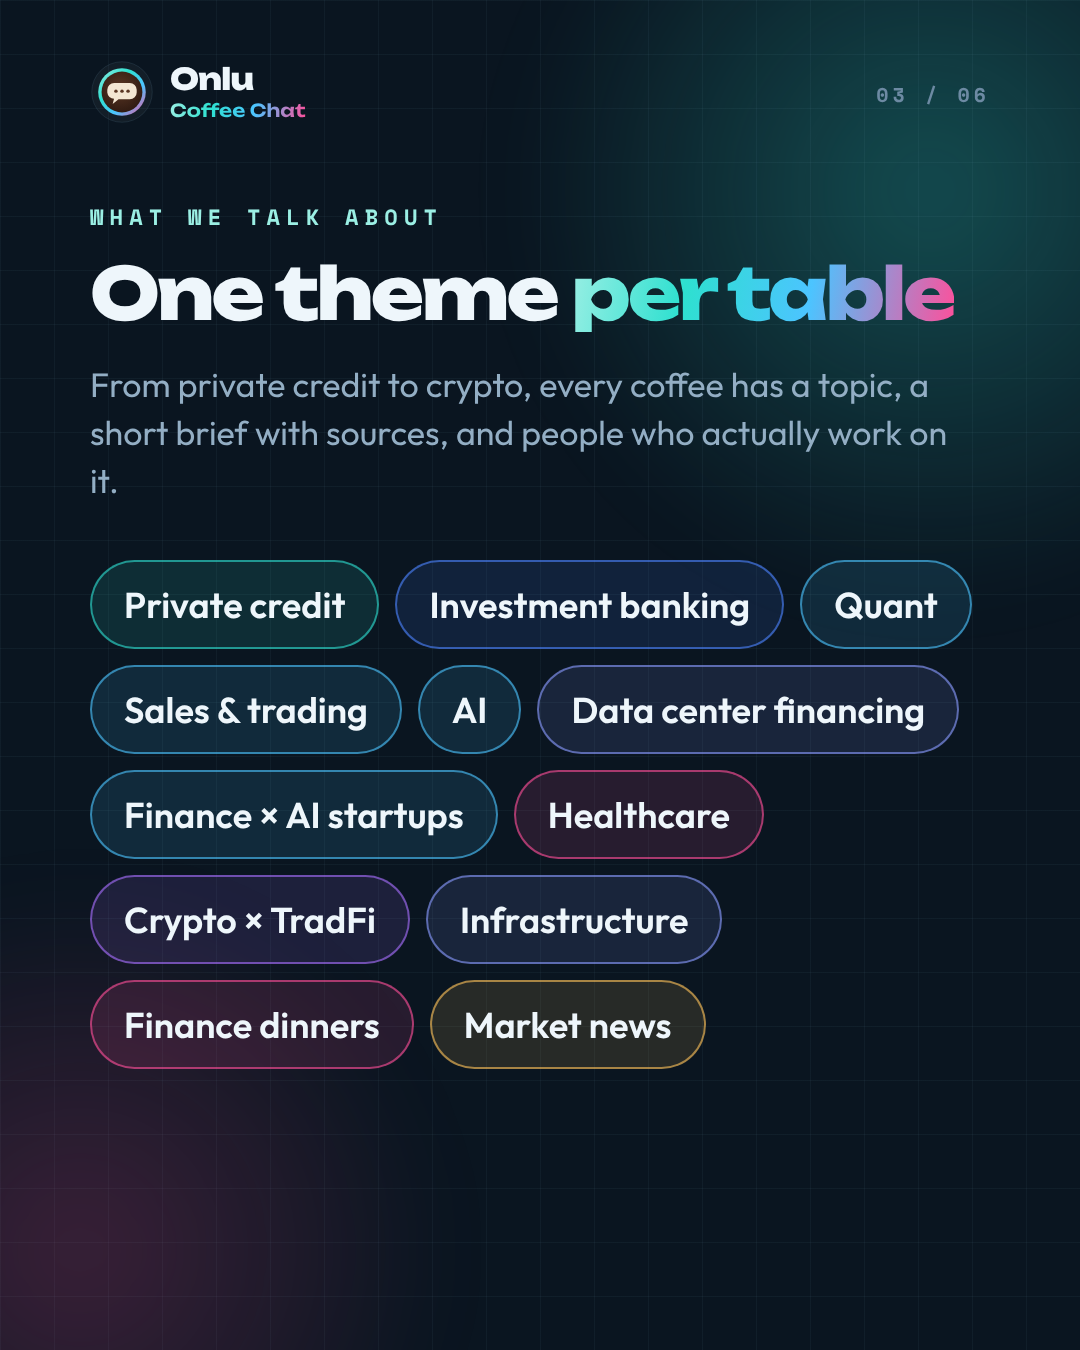
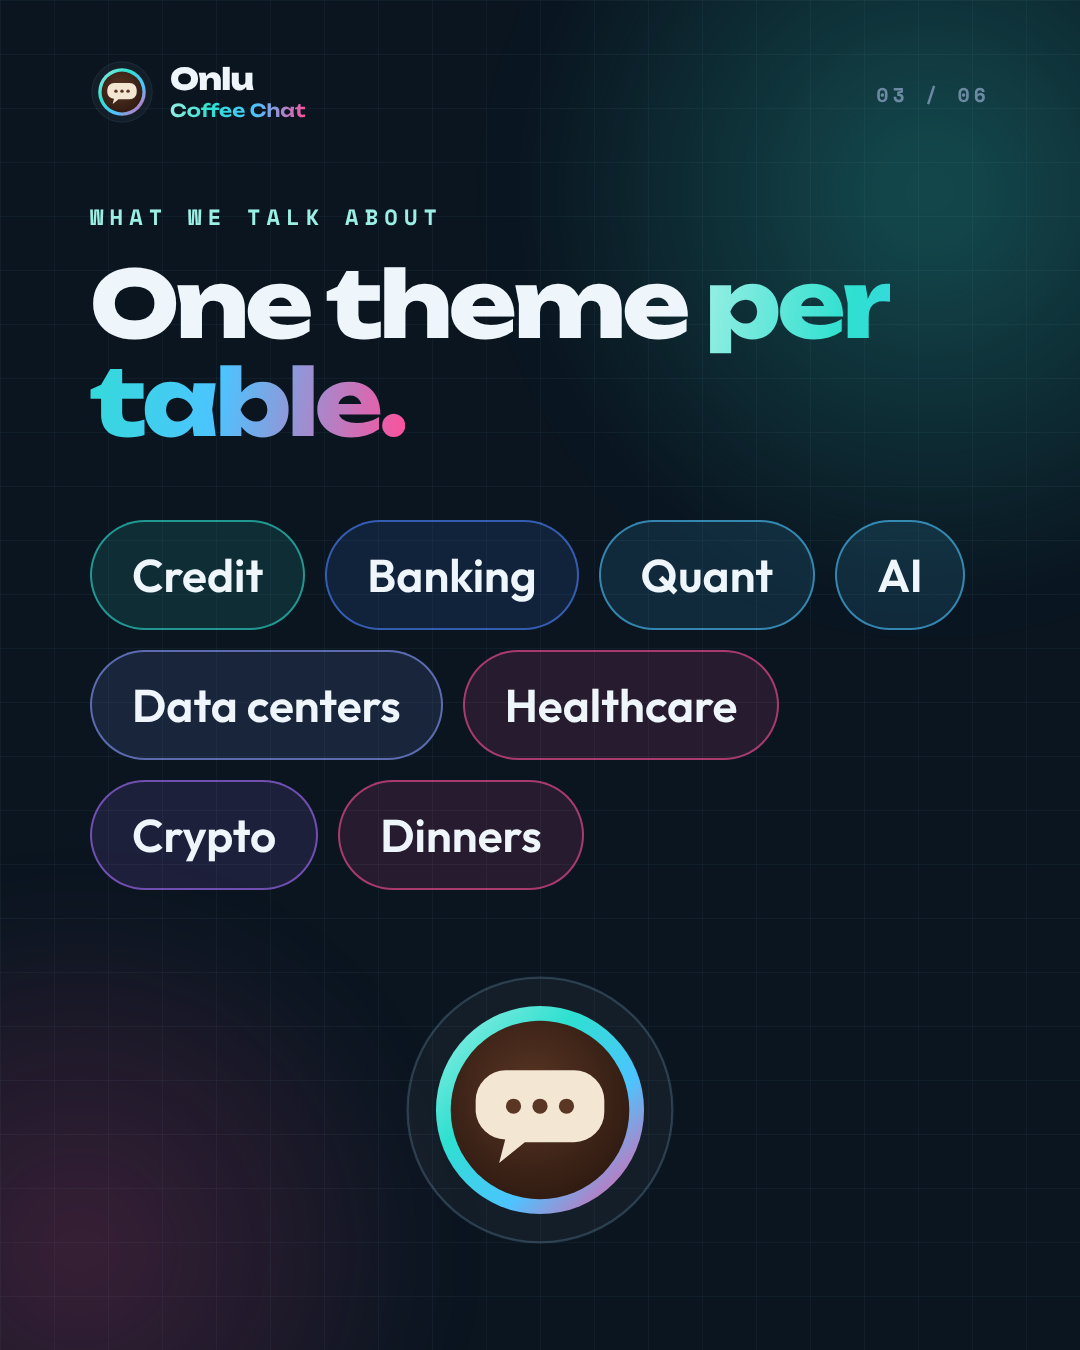
IG recap: fewer words, bigger type
Claude-Session: https://claude.ai/code/session_01THQHzvNsjhHsMdRnnGj1hD

Changed region(s): [[0.0611, 0.3733, 0.9167, 0.9022], [0.0611, 0.1867, 0.8861, 0.3733]]

diff --git a/social/ig/recap.html b/social/ig/recap.html
@@ -47,6 +47,19 @@ h2{font:800 72px/1.06 'Unbounded';letter-spacing:-.04em;margin:22px 0 0;}
 .cta p{font-size:30px;color:#93aec4;margin-top:16px;}
 .url{display:inline-block;margin-top:56px;font:800 40px 'Unbounded';letter-spacing:-.02em;color:#08131c;padding:24px 40px;border-radius:999px;background:linear-gradient(100deg,#9befe4,#2ee0d0 30%,#4cc4ff 62%,#ff4f9a);}
 .big{display:flex;justify-content:center;margin-top:10px;}
+</style><style>
+.s h1{font-size:120px;}
+.s h2{font-size:92px;}
+.tl li{font-size:38px;padding:13px 0;}
+.chips{gap:20px;margin-top:70px;}
+.chip{font-size:46px;padding:24px 40px;}
+.steps2{display:flex;flex-direction:column;gap:40px;margin-top:80px;}
+.steps2 div{display:flex;align-items:center;gap:34px;font:600 54px 'Outfit';}
+.steps2 i{font:800 54px 'Unbounded';font-style:normal;width:110px;}
+.bt{font-size:36px;} .bt b{font-size:34px;} .bars{gap:26px;margin-top:70px;}
+.tr{height:20px;}
+.st b{font-size:80px;} .st span{font-size:28px;}
+.cta h3{font-size:62px;}
 </style>
 <svg width="0" height="0" style="position:absolute"><defs>
   <linearGradient id="g" x1="0" y1="0" x2="1" y2="1"><stop offset="0" stop-color="#9befe4"/><stop offset=".35" stop-color="#2ee0d0"/><stop offset=".65" stop-color="#4cc4ff"/><stop offset="1" stop-color="#ff4f9a"/></linearGradient>
@@ -56,64 +69,47 @@ h2{font:800 72px/1.06 'Unbounded';letter-spacing:-.04em;margin:22px 0 0;}
   <circle cx="500" cy="500" r="350" fill="rgba(255,255,255,.04)" stroke="rgba(150,200,230,.22)" stroke-width="6"/>
   <circle cx="500" cy="500" r="275" fill="url(#g)"/><circle cx="500" cy="500" r="236" fill="url(#coffee)"/>
   <path d="M410 395 H590 A80 80 0 0 1 670 475 V505 A80 80 0 0 1 590 585 H460 L392 640 L408 578 A80 80 0 0 1 330 505 V475 A80 80 0 0 1 410 395 Z" fill="#f3e6d3"/>
-  <circle cx="430" cy="490" r="20" fill="#5a3624"/><circle cx="500" cy="490" r="20" fill="#5a3624"/><circle cx="570" cy="490" r="20" fill="#5a3624"/></svg><div><b>Onlu</b><span>Coffee Chat</span></div></div><div class="pg">01 / 06</div><div class="grid"></div>
-  <p class="k">New York · since May</p>
-  <h1>What we&#39;ve <span class="gr">brewed</span> so far.</h1>
-  <p class="lede">Small, themed coffees for people who work in finance. <b>Real conversations, zero cold DMs.</b></p>
-  <div class="stats"><div class="st"><b>10+</b><span>themed sessions</span></div><div class="st"><b>80+</b><span>sign-ups since July</span></div><div class="st"><b>150+</b><span>in our Xiaohongshu group</span></div></div>
-  <div class="big" style="margin-top:80px"><svg viewBox="130 130 740 740" width="250" height="250" style="display:block;flex:none">
+  <circle cx="430" cy="490" r="20" fill="#5a3624"/><circle cx="500" cy="490" r="20" fill="#5a3624"/><circle cx="570" cy="490" r="20" fill="#5a3624"/></svg><div><b>Onlu</b><span>Coffee Chat</span></div></div><div class="pg">01 / 06</div><div class="grid"></div><p class="k">NYC · since May</p>
+  <h1>What we&#39;ve <span class="gr">brewed.</span></h1>
+  <div class="stats"><div class="st"><b>10+</b><span>coffees</span></div><div class="st"><b>80+</b><span>sign-ups</span></div><div class="st"><b>150+</b><span>community</span></div></div>
+  <div class="big" style="margin-top:110px"><svg viewBox="130 130 740 740" width="300" height="300" style="display:block;flex:none">
   <circle cx="500" cy="500" r="350" fill="rgba(255,255,255,.04)" stroke="rgba(150,200,230,.22)" stroke-width="6"/>
   <circle cx="500" cy="500" r="275" fill="url(#g)"/><circle cx="500" cy="500" r="236" fill="url(#coffee)"/>
   <path d="M410 395 H590 A80 80 0 0 1 670 475 V505 A80 80 0 0 1 590 585 H460 L392 640 L408 578 A80 80 0 0 1 330 505 V475 A80 80 0 0 1 410 395 Z" fill="#f3e6d3"/>
   <circle cx="430" cy="490" r="20" fill="#5a3624"/><circle cx="500" cy="490" r="20" fill="#5a3624"/><circle cx="570" cy="490" r="20" fill="#5a3624"/></svg></div>
-  <p class="swipe">SWIPE →</p></section>
-<section class="s" id="s2"><div class="brand"><svg viewBox="130 130 740 740" width="64" height="64" style="display:block;flex:none">
+  <p class="swipe">SWIPE →</p></section><section class="s" id="s2"><div class="brand"><svg viewBox="130 130 740 740" width="64" height="64" style="display:block;flex:none">
   <circle cx="500" cy="500" r="350" fill="rgba(255,255,255,.04)" stroke="rgba(150,200,230,.22)" stroke-width="6"/>
   <circle cx="500" cy="500" r="275" fill="url(#g)"/><circle cx="500" cy="500" r="236" fill="url(#coffee)"/>
   <path d="M410 395 H590 A80 80 0 0 1 670 475 V505 A80 80 0 0 1 590 585 H460 L392 640 L408 578 A80 80 0 0 1 330 505 V475 A80 80 0 0 1 410 395 Z" fill="#f3e6d3"/>
-  <circle cx="430" cy="490" r="20" fill="#5a3624"/><circle cx="500" cy="490" r="20" fill="#5a3624"/><circle cx="570" cy="490" r="20" fill="#5a3624"/></svg><div><b>Onlu</b><span>Coffee Chat</span></div></div><div class="pg">02 / 06</div><div class="grid"></div>
-  <p class="k">The tables so far</p><h2>A coffee every <span class="gr">1–2 weeks</span></h2>
-  <ul class="tl"><li><span class="d">Jul 12</span><span class="dot" style="--c:#2ee0d0"></span><span class="e">Finance coffee chat</span></li><li><span class="d">Jul 26</span><span class="dot" style="--c:#2ee0d0"></span><span class="e">Private credit</span></li><li><span class="d">Aug 1</span><span class="dot" style="--c:#4cc4ff"></span><span class="e">Markets / sales & trading</span></li><li><span class="d">Aug 9</span><span class="dot" style="--c:#4d84ff"></span><span class="e">Investment banking</span></li><li><span class="d">Aug 16</span><span class="dot" style="--c:#4cc4ff"></span><span class="e">Quant</span></li><li><span class="d">Aug 22</span><span class="dot" style="--c:#ff4f9a"></span><span class="e">Finance dinner</span></li><li><span class="d">Aug 30</span><span class="dot" style="--c:#4cc4ff"></span><span class="e">AI</span></li><li><span class="d">Oct 3</span><span class="dot" style="--c:#2ee0d0"></span><span class="e">Credit</span></li><li><span class="d">Oct 11</span><span class="dot" style="--c:#8a9bff"></span><span class="e">Infra / data center financing</span></li><li><span class="d">Oct 17</span><span class="dot" style="--c:#4cc4ff"></span><span class="e">Finance × AI startup brainstorm</span></li><li><span class="d">Nov 8</span><span class="dot" style="--c:#ff4f9a"></span><span class="e">Healthcare × Finance × AI</span></li><li><span class="d">Nov 15</span><span class="dot" style="--c:#2ee0d0"></span><span class="e">Credit + dessert sharing</span></li></ul></section>
-<section class="s" id="s3"><div class="brand"><svg viewBox="130 130 740 740" width="64" height="64" style="display:block;flex:none">
+  <circle cx="430" cy="490" r="20" fill="#5a3624"/><circle cx="500" cy="490" r="20" fill="#5a3624"/><circle cx="570" cy="490" r="20" fill="#5a3624"/></svg><div><b>Onlu</b><span>Coffee Chat</span></div></div><div class="pg">02 / 06</div><div class="grid"></div><p class="k">So far</p><h2>The <span class="gr">tables</span></h2><ul class="tl"><li><span class="d">Jul 12</span><span class="dot" style="--c:#2ee0d0"></span><span class="e">Finance</span></li><li><span class="d">Jul 26</span><span class="dot" style="--c:#2ee0d0"></span><span class="e">Private credit</span></li><li><span class="d">Aug 1</span><span class="dot" style="--c:#4cc4ff"></span><span class="e">Sales & trading</span></li><li><span class="d">Aug 9</span><span class="dot" style="--c:#4d84ff"></span><span class="e">Banking</span></li><li><span class="d">Aug 16</span><span class="dot" style="--c:#4cc4ff"></span><span class="e">Quant</span></li><li><span class="d">Aug 22</span><span class="dot" style="--c:#ff4f9a"></span><span class="e">Dinner</span></li><li><span class="d">Aug 30</span><span class="dot" style="--c:#4cc4ff"></span><span class="e">AI</span></li><li><span class="d">Oct 3</span><span class="dot" style="--c:#2ee0d0"></span><span class="e">Credit</span></li><li><span class="d">Oct 11</span><span class="dot" style="--c:#8a9bff"></span><span class="e">Data centers</span></li><li><span class="d">Oct 17</span><span class="dot" style="--c:#4cc4ff"></span><span class="e">AI startups</span></li><li><span class="d">Nov 8</span><span class="dot" style="--c:#ff4f9a"></span><span class="e">Healthcare</span></li><li><span class="d">Nov 15</span><span class="dot" style="--c:#2ee0d0"></span><span class="e">Credit + dessert</span></li></ul></section><section class="s" id="s3"><div class="brand"><svg viewBox="130 130 740 740" width="64" height="64" style="display:block;flex:none">
   <circle cx="500" cy="500" r="350" fill="rgba(255,255,255,.04)" stroke="rgba(150,200,230,.22)" stroke-width="6"/>
   <circle cx="500" cy="500" r="275" fill="url(#g)"/><circle cx="500" cy="500" r="236" fill="url(#coffee)"/>
   <path d="M410 395 H590 A80 80 0 0 1 670 475 V505 A80 80 0 0 1 590 585 H460 L392 640 L408 578 A80 80 0 0 1 330 505 V475 A80 80 0 0 1 410 395 Z" fill="#f3e6d3"/>
-  <circle cx="430" cy="490" r="20" fill="#5a3624"/><circle cx="500" cy="490" r="20" fill="#5a3624"/><circle cx="570" cy="490" r="20" fill="#5a3624"/></svg><div><b>Onlu</b><span>Coffee Chat</span></div></div><div class="pg">03 / 06</div><div class="grid"></div>
-  <p class="k">What we talk about</p><h2>One theme <span class="gr">per table</span></h2>
-  <p class="lede">From private credit to crypto, every coffee has a topic, a short brief with sources, and people who actually work on it.</p>
-  <div class="chips"><span class="chip" style="--c:#2ee0d0">Private credit</span><span class="chip" style="--c:#4d84ff">Investment banking</span><span class="chip" style="--c:#4cc4ff">Quant</span><span class="chip" style="--c:#4cc4ff">Sales & trading</span><span class="chip" style="--c:#4cc4ff">AI</span><span class="chip" style="--c:#8a9bff">Data center financing</span><span class="chip" style="--c:#4cc4ff">Finance × AI startups</span><span class="chip" style="--c:#ff4f9a">Healthcare</span><span class="chip" style="--c:#a970ff">Crypto × TradFi</span><span class="chip" style="--c:#8a9bff">Infrastructure</span><span class="chip" style="--c:#ff4f9a">Finance dinners</span><span class="chip" style="--c:#ffc35a">Market news</span></div>
-  </section>
-<section class="s" id="s4"><div class="brand"><svg viewBox="130 130 740 740" width="64" height="64" style="display:block;flex:none">
+  <circle cx="430" cy="490" r="20" fill="#5a3624"/><circle cx="500" cy="490" r="20" fill="#5a3624"/><circle cx="570" cy="490" r="20" fill="#5a3624"/></svg><div><b>Onlu</b><span>Coffee Chat</span></div></div><div class="pg">03 / 06</div><div class="grid"></div><p class="k">What we talk about</p><h2>One theme <span class="gr">per table.</span></h2><div class="chips"><span class="chip" style="--c:#2ee0d0">Credit</span><span class="chip" style="--c:#4d84ff">Banking</span><span class="chip" style="--c:#4cc4ff">Quant</span><span class="chip" style="--c:#4cc4ff">AI</span><span class="chip" style="--c:#8a9bff">Data centers</span><span class="chip" style="--c:#ff4f9a">Healthcare</span><span class="chip" style="--c:#a970ff">Crypto</span><span class="chip" style="--c:#ff4f9a">Dinners</span></div><div class="big" style="position:absolute;left:0;right:0;bottom:100px"><svg viewBox="130 130 740 740" width="280" height="280" style="display:block;flex:none">
   <circle cx="500" cy="500" r="350" fill="rgba(255,255,255,.04)" stroke="rgba(150,200,230,.22)" stroke-width="6"/>
   <circle cx="500" cy="500" r="275" fill="url(#g)"/><circle cx="500" cy="500" r="236" fill="url(#coffee)"/>
   <path d="M410 395 H590 A80 80 0 0 1 670 475 V505 A80 80 0 0 1 590 585 H460 L392 640 L408 578 A80 80 0 0 1 330 505 V475 A80 80 0 0 1 410 395 Z" fill="#f3e6d3"/>
-  <circle cx="430" cy="490" r="20" fill="#5a3624"/><circle cx="500" cy="490" r="20" fill="#5a3624"/><circle cx="570" cy="490" r="20" fill="#5a3624"/></svg><div><b>Onlu</b><span>Coffee Chat</span></div></div><div class="pg">04 / 06</div><div class="grid"></div>
-  <p class="k">How it works</p><h2>Not a <span class="gr">mixer.</span></h2>
-  <div class="steps">
-    <div class="step"><i class="gr">01</i><div><b>Pick a theme</b><span>Credit, banking, quant, AI, infra, healthcare and more.</span></div></div>
-    <div class="step"><i class="gr">02</i><div><b>Small tables</b><span>Seated by background, so everyone at the table is relevant.</span></div></div>
-    <div class="step"><i class="gr">03</i><div><b>A real agenda</b><span>A topic page with sourced numbers, and a host who makes sure everyone talks.</span></div></div>
-    <div class="step"><i class="gr">04</i><div><b>Stay in touch</b><span>Scan each other in Onlu Members and swap contacts after.</span></div></div>
-  </div></section>
-<section class="s" id="s5"><div class="brand"><svg viewBox="130 130 740 740" width="64" height="64" style="display:block;flex:none">
+  <circle cx="430" cy="490" r="20" fill="#5a3624"/><circle cx="500" cy="490" r="20" fill="#5a3624"/><circle cx="570" cy="490" r="20" fill="#5a3624"/></svg></div></section><section class="s" id="s4"><div class="brand"><svg viewBox="130 130 740 740" width="64" height="64" style="display:block;flex:none">
   <circle cx="500" cy="500" r="350" fill="rgba(255,255,255,.04)" stroke="rgba(150,200,230,.22)" stroke-width="6"/>
   <circle cx="500" cy="500" r="275" fill="url(#g)"/><circle cx="500" cy="500" r="236" fill="url(#coffee)"/>
   <path d="M410 395 H590 A80 80 0 0 1 670 475 V505 A80 80 0 0 1 590 585 H460 L392 640 L408 578 A80 80 0 0 1 330 505 V475 A80 80 0 0 1 410 395 Z" fill="#f3e6d3"/>
-  <circle cx="430" cy="490" r="20" fill="#5a3624"/><circle cx="500" cy="490" r="20" fill="#5a3624"/><circle cx="570" cy="490" r="20" fill="#5a3624"/></svg><div><b>Onlu</b><span>Coffee Chat</span></div></div><div class="pg">05 / 06</div><div class="grid"></div>
-  <p class="k">Who&#39;s at the table</p><h2>Mostly <span class="gr">Associates &amp; VPs</span></h2>
-  <p class="lede">Buy side and sell side, a few years in.</p>
-  <div class="bars"><div class="bar"><div class="bt"><span>Credit</span><b>26%</b></div><div class="tr"><i style="width:100%;background:#2ee0d0"></i></div></div><div class="bar"><div class="bt"><span>Quant & trading</span><b>23%</b></div><div class="tr"><i style="width:88%;background:#4cc4ff"></i></div></div><div class="bar"><div class="bt"><span>PE, real assets & AM</span><b>15%</b></div><div class="tr"><i style="width:58%;background:#8a9bff"></i></div></div><div class="bar"><div class="bt"><span>Investment banking</span><b>12%</b></div><div class="tr"><i style="width:46%;background:#ff4f9a"></i></div></div><div class="bar"><div class="bt"><span>Strategy, research & risk</span><b>10%</b></div><div class="tr"><i style="width:38%;background:#0fa89f"></i></div></div><div class="bar"><div class="bt"><span>AI & technology</span><b>7%</b></div><div class="tr"><i style="width:27%;background:#4d84ff"></i></div></div><div class="bar"><div class="bt"><span>Students & early career</span><b>4%</b></div><div class="tr"><i style="width:15%;background:#9befe4"></i></div></div><div class="bar"><div class="bt"><span>Other</span><b>3%</b></div><div class="tr"><i style="width:12%;background:#6d8aa3"></i></div></div></div>
-  <p class="note">Share of 69 distinct participants with a stated background, from our attendee lists. Roles only, no names or firms.</p></section>
-<section class="s" id="s6"><div class="brand"><svg viewBox="130 130 740 740" width="64" height="64" style="display:block;flex:none">
+  <circle cx="430" cy="490" r="20" fill="#5a3624"/><circle cx="500" cy="490" r="20" fill="#5a3624"/><circle cx="570" cy="490" r="20" fill="#5a3624"/></svg><div><b>Onlu</b><span>Coffee Chat</span></div></div><div class="pg">04 / 06</div><div class="grid"></div><p class="k">How it works</p><h2>Not a <span class="gr">mixer.</span></h2>
+  <div class="steps2"><div><i class="gr">01</i>Pick a theme</div><div><i class="gr">02</i>Small tables</div><div><i class="gr">03</i>A real agenda</div><div><i class="gr">04</i>Stay in touch</div></div><div class="big" style="position:absolute;left:0;right:0;bottom:100px"><svg viewBox="130 130 740 740" width="280" height="280" style="display:block;flex:none">
   <circle cx="500" cy="500" r="350" fill="rgba(255,255,255,.04)" stroke="rgba(150,200,230,.22)" stroke-width="6"/>
   <circle cx="500" cy="500" r="275" fill="url(#g)"/><circle cx="500" cy="500" r="236" fill="url(#coffee)"/>
   <path d="M410 395 H590 A80 80 0 0 1 670 475 V505 A80 80 0 0 1 590 585 H460 L392 640 L408 578 A80 80 0 0 1 330 505 V475 A80 80 0 0 1 410 395 Z" fill="#f3e6d3"/>
-  <circle cx="430" cy="490" r="20" fill="#5a3624"/><circle cx="500" cy="490" r="20" fill="#5a3624"/><circle cx="570" cy="490" r="20" fill="#5a3624"/></svg><div><b>Onlu</b><span>Coffee Chat</span></div></div><div class="pg">06 / 06</div><div class="grid"></div>
-  <p class="k">Pull up a chair</p><h2>Your <span class="gr">seat</span> is waiting.</h2>
-  <div class="cta"><p class="k">Next up · Sat Dec 12</p><h3>Infrastructure Investment &amp; Financing</h3><p>A small closed-door panel with infra PE, project finance and M&amp;A advisory voices.</p></div>
+  <circle cx="430" cy="490" r="20" fill="#5a3624"/><circle cx="500" cy="490" r="20" fill="#5a3624"/><circle cx="570" cy="490" r="20" fill="#5a3624"/></svg></div></section><section class="s" id="s5"><div class="brand"><svg viewBox="130 130 740 740" width="64" height="64" style="display:block;flex:none">
+  <circle cx="500" cy="500" r="350" fill="rgba(255,255,255,.04)" stroke="rgba(150,200,230,.22)" stroke-width="6"/>
+  <circle cx="500" cy="500" r="275" fill="url(#g)"/><circle cx="500" cy="500" r="236" fill="url(#coffee)"/>
+  <path d="M410 395 H590 A80 80 0 0 1 670 475 V505 A80 80 0 0 1 590 585 H460 L392 640 L408 578 A80 80 0 0 1 330 505 V475 A80 80 0 0 1 410 395 Z" fill="#f3e6d3"/>
+  <circle cx="430" cy="490" r="20" fill="#5a3624"/><circle cx="500" cy="490" r="20" fill="#5a3624"/><circle cx="570" cy="490" r="20" fill="#5a3624"/></svg><div><b>Onlu</b><span>Coffee Chat</span></div></div><div class="pg">05 / 06</div><div class="grid"></div><p class="k">Who&#39;s at the table</p><h2>Associates <span class="gr">&amp; VPs</span></h2><div class="bars"><div class="bar"><div class="bt"><span>Credit</span><b>26%</b></div><div class="tr"><i style="width:100%;background:#2ee0d0"></i></div></div><div class="bar"><div class="bt"><span>Quant & trading</span><b>23%</b></div><div class="tr"><i style="width:88%;background:#4cc4ff"></i></div></div><div class="bar"><div class="bt"><span>PE & real assets</span><b>15%</b></div><div class="tr"><i style="width:58%;background:#8a9bff"></i></div></div><div class="bar"><div class="bt"><span>Banking</span><b>12%</b></div><div class="tr"><i style="width:46%;background:#ff4f9a"></i></div></div><div class="bar"><div class="bt"><span>Strategy & risk</span><b>10%</b></div><div class="tr"><i style="width:38%;background:#0fa89f"></i></div></div><div class="bar"><div class="bt"><span>Other</span><b>14%</b></div><div class="tr"><i style="width:54%;background:#6d8aa3"></i></div></div></div><p class="note">69 attendees · roles only</p></section><section class="s" id="s6"><div class="brand"><svg viewBox="130 130 740 740" width="64" height="64" style="display:block;flex:none">
+  <circle cx="500" cy="500" r="350" fill="rgba(255,255,255,.04)" stroke="rgba(150,200,230,.22)" stroke-width="6"/>
+  <circle cx="500" cy="500" r="275" fill="url(#g)"/><circle cx="500" cy="500" r="236" fill="url(#coffee)"/>
+  <path d="M410 395 H590 A80 80 0 0 1 670 475 V505 A80 80 0 0 1 590 585 H460 L392 640 L408 578 A80 80 0 0 1 330 505 V475 A80 80 0 0 1 410 395 Z" fill="#f3e6d3"/>
+  <circle cx="430" cy="490" r="20" fill="#5a3624"/><circle cx="500" cy="490" r="20" fill="#5a3624"/><circle cx="570" cy="490" r="20" fill="#5a3624"/></svg><div><b>Onlu</b><span>Coffee Chat</span></div></div><div class="pg">06 / 06</div><div class="grid"></div><p class="k">Next up</p><h2>Your <span class="gr">seat</span> is waiting.</h2>
+  <div class="cta"><p class="k">Sat · Dec 12</p><h3>Infrastructure panel</h3></div>
   <div class="url">coffeewithonlu.com</div>
-  <p class="lede" style="font-size:28px">Sign up for events and the Onlu Brief on the site.</p>
-  <div class="big" style="margin-top:70px"><svg viewBox="130 130 740 740" width="260" height="260" style="display:block;flex:none">
+  <div class="big" style="margin-top:90px"><svg viewBox="130 130 740 740" width="280" height="280" style="display:block;flex:none">
   <circle cx="500" cy="500" r="350" fill="rgba(255,255,255,.04)" stroke="rgba(150,200,230,.22)" stroke-width="6"/>
   <circle cx="500" cy="500" r="275" fill="url(#g)"/><circle cx="500" cy="500" r="236" fill="url(#coffee)"/>
   <path d="M410 395 H590 A80 80 0 0 1 670 475 V505 A80 80 0 0 1 590 585 H460 L392 640 L408 578 A80 80 0 0 1 330 505 V475 A80 80 0 0 1 410 395 Z" fill="#f3e6d3"/>
